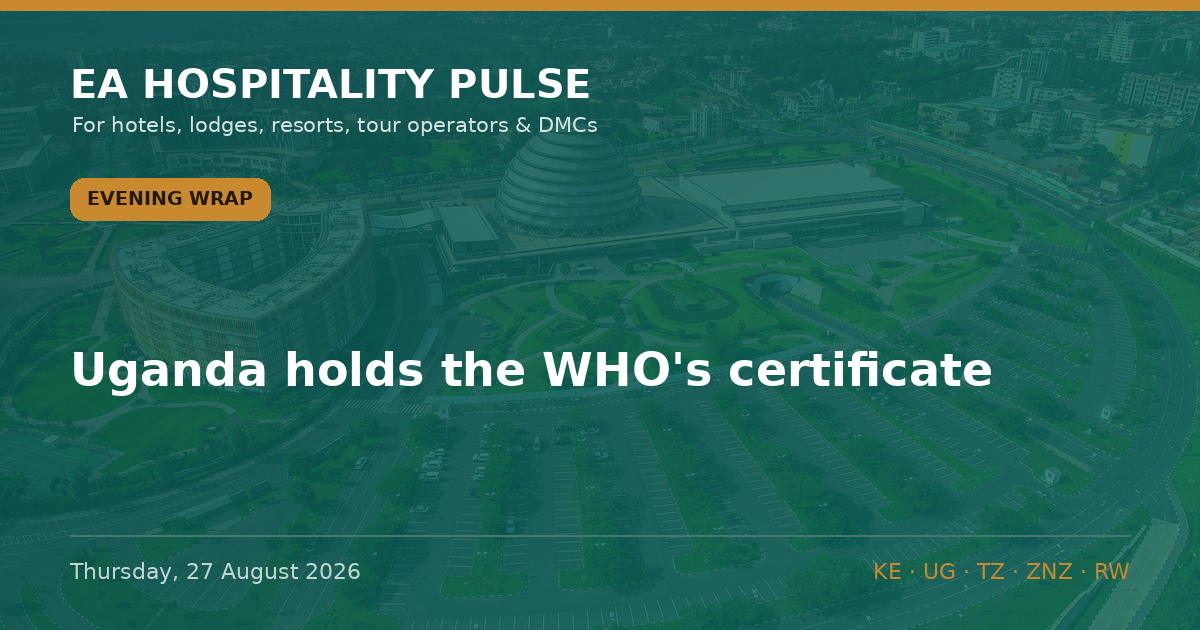
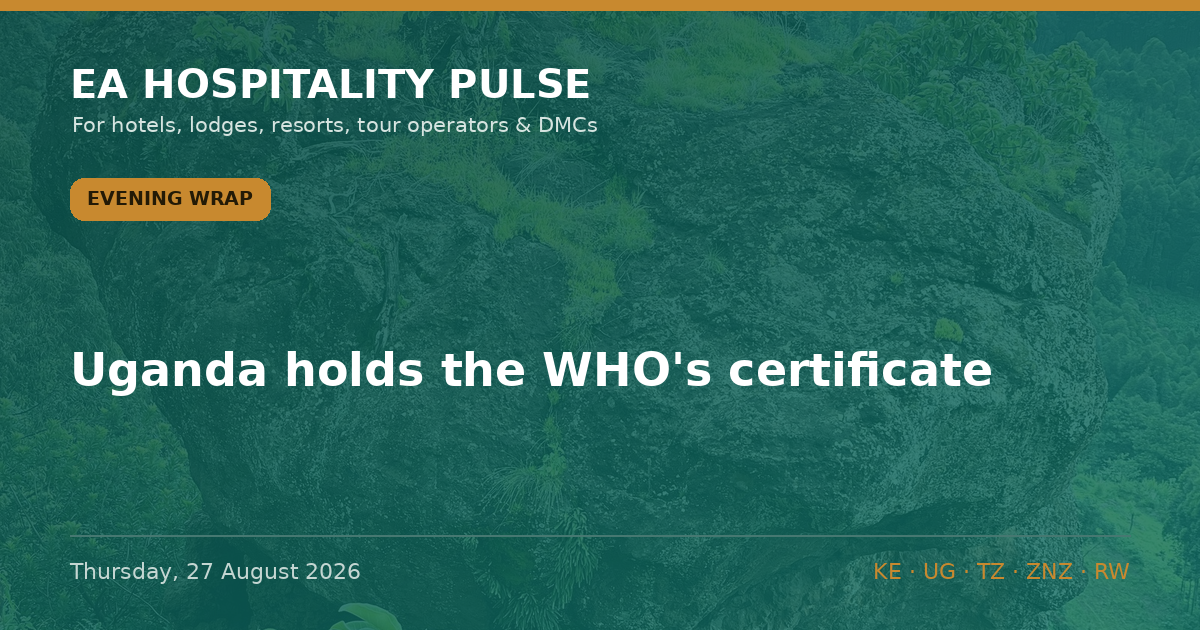
Auto-build: 2026-08-27 13:41 UTC

diff --git a/data.js b/data.js
@@ -135,15 +135,6 @@ window.EDITIONS = [
   "bodyHtml": "<p>☀ <strong>MORNING BRIEF — Tue 19 Aug 2026</strong><br><em>Quiet news slot — one expert read that matters more than any headline.</em></p>\n<p><strong>YOUR FASTEST-GROWING GUEST IS YOUR NEIGHBOUR — AND YOUR GOVERNMENT IS TAXING THEM AT THE BASE</strong></p>\n<p>Read the 2025 source-market tables and the story stops being about Europe. Uganda sent Kenya <strong>234,556 visitors in 2025 — 31% of all African arrivals, up 8.7%</strong>; Tanzania <strong>209,536, up 7.7%</strong> (KTB/TRI data via POATE 2026, reported by Citizen Digital &amp; New Vision). Kenya now targets <strong>300,000 Ugandan arrivals</strong>. In Rwanda it&#x27;s starker: the <strong>DRC is now the single largest source market — 185,420 visitors in H1 2026, 12.5% of all international arrivals</strong> (RDB). The regional guest is the base load now, not the overflow.</p>\n<p><strong>What most operators miss:</strong> the guest base changed but the playbook didn&#x27;t. The marginal booking now comes from a traveller who ignores Western Level-3 advisories, books short, drives or short-hauls in, and pays in a regional currency — yet we still run a long-haul-dollar operation: USD rack rates, GDS/OTA distribution, risk comms aimed at Europe. Worse, the same treasuries celebrating this demand are taxing its most price-sensitive flyer. Kenya&#x27;s JKIA passenger levy is now <strong>pledged to bondholders</strong> (Business Daily, 24 Jul) — hard to cut — with a 2% short-term-rental levy and a proposed travel-health-insurance charge stacking on top. Regional demand shrugs off advisories but is exquisitely sensitive to a $20 levy.</p>\n<p><span class=\"sowhat\">🎯 <strong>So what — by segment:</strong></span><br>🏙 <strong>City:</strong> regional corporate, VFR and events traffic is your steadiest base — build regional-agent and WhatsApp distribution, quote in regional terms, not just a USD rack. 🌿 <strong>Bush:</strong> regional guests are lower-ADR but fill shoulder/low season and hedge advisory-driven long-haul softness — watch the total trip cost, because a park-fee-plus-air-levy stack is what loses them. 🏖 <strong>Beach:</strong> the drive-and-short-haul market (Ugandans/Tanzanians to Diani &amp; Mombasa, regional flyers to Zanzibar) is now year-round base load — protect it from feeder-route fragility and levy creep.<br><span class=\"tagline\">🏷 Regional · Confirmed (KTB/TRI 2025, RDB H1 2026) / Inference on operator response.</span></p>\n<hr class=\"divider\">\n<p>✅ <strong>STILL TRUE</strong> — No EA advisory moved. Kenya <strong>US Level 2</strong> (core corridors, Diani, Watamu clear); Tanzania &amp; Zanzibar <strong>Level 3</strong> (since 31 Oct 2025); Uganda <strong>US Level 4</strong> on residual Ebola grounds despite its 28 Jul outbreak-over call (travel.state.gov, verified 12 Aug). The regional guest travels through all of it — don&#x27;t discount as though it had lifted.<br>💷 <strong>COST PULSE</strong> — Price regional in regional money: KES→UGX <strong>28.36</strong> · KES→TZS <strong>20.30</strong> · KES→RWF <strong>11.31</strong> (CBK weekly). Kenya diesel <strong>KSh 217.86/L</strong> (EPRA, 14 Aug) — refuse any supplier fuel surcharge this cycle.<br><span class=\"meta-line\">📅 <strong>WEEK AHEAD</strong> — <strong>19–21 Aug</strong> Hotel Expo Kenya, KICC · <strong>18–20 Aug</strong> AfPIF, Kigali Marriott · late Aug KNBS/UBOS/NISR CPI · <strong>26–28 Aug</strong> Africa Global PR Week, Nairobi · <strong>4 Sep</strong> Kwita Izina, Musanze.</span><br><span class=\"meta-line\">📡 <strong>RADAR</strong> — 470 in-window observations to 08:38 EAT; feed live. No EA advisory moved (only Mauritania/Netherlands/Ecuador flagged). Jambojet &amp; Airlink press pages moved behind Incapsula — a persistent blind spot, not news. Kenya Law feed heavy with court judgments, none hospitality.</span></p>\n<p>🔗 This edition on the web: <a href=\"https://eahospitalitypulse.com/editions/pulse-2026-08-19-morning.html\" rel=\"noopener\">eahospitalitypulse.com/editions/pulse-2026-08-19-mornin…</a></p>"
  },
  {
-  "id": "pulse-2026-08-18-special",
-  "date": "2026-08-18",
-  "dateDisplay": "Tuesday, 18 August 2026",
-  "edition": "Morning Brief",
-  "editionKey": "morning",
-  "summary": "1⃣ 🇰🇪 THE COAST IS OUTGROWING THE GATEWAY — AND THE NATIONAL NUMBER HIDES IT",
-  "bodyHtml": "<p>📊 <strong>EA HOSPITALITY PULSE — Special Edition</strong><br>🗓 Tuesday 18 August 2026 | 🇰🇪 KNBS data drop</p>\n<p><em>Kenya&#x27;s arrivals are up — but not where the headline says. Read the map before the margin.</em><br>━━━━━━━━━<br><strong>1⃣ 🇰🇪 THE COAST IS OUTGROWING THE GATEWAY — AND THE NATIONAL NUMBER HIDES IT</strong></p>\n<p>Official visitor arrivals now run through April. Jan–Apr 2026: <strong>828,830, up 9.5%</strong> on the same months of 2025 (757,245) — Kenya Leading Economic Indicators, June 2026, KNBS, released 14 Aug.</p>\n<p>The headline is real. The distribution is the story. Mombasa&#x27;s Moi International (MIA) took <strong>96,701 arrivals, up 19.7%</strong> year-on-year, while JKIA grew <strong>8.5%</strong> and land borders <strong>7.5%</strong>. The coast is recovering over twice as fast as the Nairobi gateway.</p>\n<p><strong>What everyone is missing:</strong> the +9.5% is not evenly yours. In April — the long-rains trough — national arrivals rose just 2.9% and <strong>JKIA fell 1.0%</strong> YoY. Strip the coast out and the city-gateway recovery is modest and seasonal. A Nairobi GM reading &quot;+9.5%&quot; as their own demand is reading the wrong line. Backing it: SGR passengers ran <strong>~12% ahead</strong> in Q1 — the Nairobi–Mombasa corridor is carrying this (KNBS).</p>\n<p><span class=\"tagline\">🏷 City/Beach · Kenya · Confirmed (KNBS arrivals &amp; SGR) / Inference (regional read)</span><br><span class=\"sowhat\">🎯 <strong>So what:</strong> <strong>Coast</strong> — demand is arriving; hold rate through the Sep–Oct build and stop discounting. <strong>Nairobi</strong> — treat H1 as flat-to-soft on your own gateway; win share through corporate, MICE and regional traffic, not a rising tide.</span></p>\n<p><strong>2⃣ 🇰🇪 THE CURRENCY IS QUIETLY REPRICING YOUR EUROPEAN GUEST</strong></p>\n<p>Over H1 2026 the shilling <strong>firmed</strong> against sterling (174.32→<strong>172.72</strong>) and the euro (151.37→<strong>149.22</strong>), flat against the dollar at <strong>~129.5</strong> (KNBS, June). Inflation sat at <strong>6.4%</strong>, the CBR held at <strong>8.75%</strong>.</p>\n<p>Read together: a European operator&#x27;s fixed FX budget now buys <strong>fewer shillings</strong> than in January — mild pressure on any KES-cost property selling into Europe, while dollar-priced lodges keep their spread intact.</p>\n<p><span class=\"tagline\">🏷 City/Bush/Beach · Kenya · Confirmed (KNBS forex/CPI) / Inference (pricing read)</span><br><span class=\"sowhat\">🎯 <strong>So what:</strong> If you cost in shillings and sell in euros or pounds, revisit 2027 contract rates now — the FX drift is against you. Price in USD and you&#x27;re insulated.</span></p>\n<p>━━━━━━━━━<br>🍲 <strong>SUPPLY-CHAIN SIDEBAR — where your southern-circuit kitchen shops</strong></p>\n<p>Informal cross-border trade <strong>fell 16.7%</strong> in 2025 (KSh 299.0m→249.1m), and <strong>Tanzania became the top source of informal imports at 47.2%</strong>, overwhelmingly <strong>food and live animals (78.5%)</strong> — KNBS Informal Cross-Border Trade Survey 2025, released 17 Aug. Main entry points: <strong>Namanga, Isebania, Malaba</strong> — the Amboseli, Mara and Uganda corridors.</p>\n<p><span class=\"sowhat\">🎯 <strong>So what:</strong> Southern-circuit lodges run partly on this informal Tanzanian fresh-food flow. A contracting, Tanzania-concentrated supply line is a produce-cost and continuity risk — worth a word with your F&amp;B suppliers before high season. 🏷 Bush · Confirmed (KNBS ICBT) / Inference.</span></p>\n<p>━━━━━━━━━<br>✅ <strong>STILL TRUE</strong> — Kenya remains US <strong>Level 2</strong>; core corridors (Nairobi, Diani, Watamu) sit in no Level 4 area (travel.state.gov, verified 12 Aug). Don&#x27;t discount on a story that hasn&#x27;t moved.</p>\n<p>⚡ <strong>COST PULSE</strong> — Nairobi diesel holds <strong>KSh 217.86/L</strong> to 14 Sep, ~KSh 14.28/L above landed-cost parity (EPRA / Business Daily, 14 Aug).</p>\n<p><span class=\"meta-line\">📅 <strong>WEEK AHEAD</strong> — <strong>19–21 Aug</strong> Hotel Expo Kenya, KICC · <strong>26–28 Aug</strong> Africa Global PR Week, Nairobi. Watch the <strong>May–June arrivals</strong> print to confirm the coast trend.</span></p>\n<p>🔗 This edition on the web: <a href=\"https://eahospitalitypulse.com/editions/pulse-2026-08-18-special.html\" rel=\"noopener\">eahospitalitypulse.com/editions/pulse-2026-08-18-specia…</a><br>— EA Hospitality Pulse | Daily intelligence for city, bush &amp; beach properties</p>"
- },
- {
   "id": "pulse-2026-08-18-morning",
   "date": "2026-08-18",
   "dateDisplay": "Tuesday, 18 August 2026",
@@ -151,6 +142,15 @@ window.EDITIONS = [
   "editionKey": "morning",
   "summary": "1⃣ 🌍 THE AIRLIFT YOU'RE CELEBRATING IS THE LEAST PROFITABLE IN THE WORLD",
   "bodyHtml": "<p>🌅 <strong>EA HOSPITALITY PULSE — Morning Brief</strong><br>🗓 Tuesday 18 August 2026 | 🌍 🇰🇪 🇺🇬 🇷🇼 🇹🇿</p>\n<p><em>Expert Brief: East Africa is adding air routes faster than its airlines can afford to fly them.</em><br>━━━━━━━━━<br><strong>1⃣ 🌍 THE AIRLIFT YOU&#x27;RE CELEBRATING IS THE LEAST PROFITABLE IN THE WORLD</strong></p>\n<p>Every route launch lands as good news in this business. Uganda Airlines opens Entebbe–Accra on 27 Oct and daily Entebbe–Kigali on 18 Nov (announced 5 Aug, The EastAfrican); Airlink starts Cape Town–Zanzibar on 3 Oct. Read the balance sheet underneath and the mood changes.</p>\n<p>IATA&#x27;s December outlook put African carriers at <strong>US$1.30 of profit per passenger</strong> for 2026 against a <strong>US$7.90</strong> global average — a <strong>1.3% margin, the thinnest of any region</strong> (IATA, 9 Dec 2025). By its June AGM it had cut the 2026 line again: profit per passenger down to <strong>40 US cents</strong> from US$2.10 in 2025, and the continent&#x27;s total net profit halved to <strong>~US$100m</strong> (IATA &quot;Energy in Crisis&quot; outlook, 8 Jun 2026). East Africa&#x27;s recovery is riding on the most fragile airlift economics on the planet.</p>\n<p><strong>What everyone is missing:</strong> a new-route press release reads as demand arriving. It is actually thin-margin capacity being <strong>lent</strong> — and thin-margin capacity is the first thing cut when a season underperforms. Turkish suspended 18 routes for summer 2026, Istanbul–Dar es Salaam among them, final flights in May/June (reported 2026). The route you don&#x27;t help fill in its first two seasons is the route that isn&#x27;t there in year three. Airlift is not infrastructure you inherit; it&#x27;s a trade relationship you keep alive.</p>\n<p><span class=\"tagline\">🏷 City/Bush/Beach · Regional · Confirmed (IATA figures &amp; schedules) / Inference (fragility read)</span><br><span class=\"sowhat\">🎯 <strong>So what — by segment:</strong> <strong>City</strong> (Nairobi/Kigali/Kampala): put corporate blocks and MICE contracts onto the new regional frequencies so they survive to a third season. <strong>Bush:</strong> the luxury pivot means fewer, higher-value guests who still need a long-haul seat — cultivate the carriers that actually serve your source markets. <strong>Beach:</strong> feeder routes are the most fragile of all — a trial like Cape Town–Zanzibar lives or dies on load factor. Fill it or lose it.</span></p>\n<p>━━━━━━━━━<br>✅ <strong>STILL TRUE</strong> — Tanzania &amp; Zanzibar remain US <strong>Level 3</strong> (unchanged since 31 Oct 2025); Kenya <strong>Level 2</strong>, core tourist corridors clear (travel.state.gov, verified 12 Aug). Nothing moved overnight. Don&#x27;t discount as though it had.</p>\n<p>⚡ <strong>COST PULSE</strong> — Nairobi diesel holds at <strong>KSh 217.86/L</strong> to 14 Sep; operators are carrying roughly <strong>KSh 14.28/L above landed-cost parity</strong> — refuse any supplier fuel surcharge this cycle (EPRA / Business Daily, 14 Aug).</p>\n<p>🎤 <strong>MICE WATCH</strong> — <strong>AfPIF</strong> (300–500 delegates) fills the Kigali Marriott cluster <strong>18–20 Aug</strong>; <strong>Hotel Expo Kenya</strong> at KICC, <strong>19–21 Aug</strong>. Hold corporate rate, don&#x27;t discount into the shoulder.</p>\n<p><span class=\"meta-line\">📅 <strong>WEEK AHEAD</strong> — <strong>18 Aug</strong> WHO IHR Committee on the Bundibugyo PHEIC · <strong>22 Aug</strong> Julius Nyerere hydropower inauguration, TZ · <strong>26–28 Aug</strong> Africa Global PR Week, Mövenpick Nairobi · <strong>28 Aug</strong> WTA Africa Gala, Zanzibar · <strong>late Aug</strong> KNBS/UBOS/NISR CPI prints.</span></p>\n<p><span class=\"meta-line\">📡 <strong>RADAR</strong> — 593 in-window observations to 08:17 EAT; feed live. Jambojet and Airlink press pages moved again behind Incapsula — a persistent blind spot, not a quiet night. Kenya Law feed heavy with court judgments, none hospitality. No advisory level moved.</span></p>\n<p><span class=\"meta-line\">💬 Which inbound route would you actually miss — and are you filling it, or just watching it?</span></p>\n<p>🔗 This edition on the web: <a href=\"https://eahospitalitypulse.com/editions/pulse-2026-08-18-morning.html\" rel=\"noopener\">eahospitalitypulse.com/editions/pulse-2026-08-18-mornin…</a><br>— EA Hospitality Pulse | Daily intelligence for city, bush &amp; beach properties</p>"
+ },
+ {
+  "id": "pulse-2026-08-18-special",
+  "date": "2026-08-18",
+  "dateDisplay": "Tuesday, 18 August 2026",
+  "edition": "Morning Brief",
+  "editionKey": "morning",
+  "summary": "1⃣ 🇰🇪 THE COAST IS OUTGROWING THE GATEWAY — AND THE NATIONAL NUMBER HIDES IT",
+  "bodyHtml": "<p>📊 <strong>EA HOSPITALITY PULSE — Special Edition</strong><br>🗓 Tuesday 18 August 2026 | 🇰🇪 KNBS data drop</p>\n<p><em>Kenya&#x27;s arrivals are up — but not where the headline says. Read the map before the margin.</em><br>━━━━━━━━━<br><strong>1⃣ 🇰🇪 THE COAST IS OUTGROWING THE GATEWAY — AND THE NATIONAL NUMBER HIDES IT</strong></p>\n<p>Official visitor arrivals now run through April. Jan–Apr 2026: <strong>828,830, up 9.5%</strong> on the same months of 2025 (757,245) — Kenya Leading Economic Indicators, June 2026, KNBS, released 14 Aug.</p>\n<p>The headline is real. The distribution is the story. Mombasa&#x27;s Moi International (MIA) took <strong>96,701 arrivals, up 19.7%</strong> year-on-year, while JKIA grew <strong>8.5%</strong> and land borders <strong>7.5%</strong>. The coast is recovering over twice as fast as the Nairobi gateway.</p>\n<p><strong>What everyone is missing:</strong> the +9.5% is not evenly yours. In April — the long-rains trough — national arrivals rose just 2.9% and <strong>JKIA fell 1.0%</strong> YoY. Strip the coast out and the city-gateway recovery is modest and seasonal. A Nairobi GM reading &quot;+9.5%&quot; as their own demand is reading the wrong line. Backing it: SGR passengers ran <strong>~12% ahead</strong> in Q1 — the Nairobi–Mombasa corridor is carrying this (KNBS).</p>\n<p><span class=\"tagline\">🏷 City/Beach · Kenya · Confirmed (KNBS arrivals &amp; SGR) / Inference (regional read)</span><br><span class=\"sowhat\">🎯 <strong>So what:</strong> <strong>Coast</strong> — demand is arriving; hold rate through the Sep–Oct build and stop discounting. <strong>Nairobi</strong> — treat H1 as flat-to-soft on your own gateway; win share through corporate, MICE and regional traffic, not a rising tide.</span></p>\n<p><strong>2⃣ 🇰🇪 THE CURRENCY IS QUIETLY REPRICING YOUR EUROPEAN GUEST</strong></p>\n<p>Over H1 2026 the shilling <strong>firmed</strong> against sterling (174.32→<strong>172.72</strong>) and the euro (151.37→<strong>149.22</strong>), flat against the dollar at <strong>~129.5</strong> (KNBS, June). Inflation sat at <strong>6.4%</strong>, the CBR held at <strong>8.75%</strong>.</p>\n<p>Read together: a European operator&#x27;s fixed FX budget now buys <strong>fewer shillings</strong> than in January — mild pressure on any KES-cost property selling into Europe, while dollar-priced lodges keep their spread intact.</p>\n<p><span class=\"tagline\">🏷 City/Bush/Beach · Kenya · Confirmed (KNBS forex/CPI) / Inference (pricing read)</span><br><span class=\"sowhat\">🎯 <strong>So what:</strong> If you cost in shillings and sell in euros or pounds, revisit 2027 contract rates now — the FX drift is against you. Price in USD and you&#x27;re insulated.</span></p>\n<p>━━━━━━━━━<br>🍲 <strong>SUPPLY-CHAIN SIDEBAR — where your southern-circuit kitchen shops</strong></p>\n<p>Informal cross-border trade <strong>fell 16.7%</strong> in 2025 (KSh 299.0m→249.1m), and <strong>Tanzania became the top source of informal imports at 47.2%</strong>, overwhelmingly <strong>food and live animals (78.5%)</strong> — KNBS Informal Cross-Border Trade Survey 2025, released 17 Aug. Main entry points: <strong>Namanga, Isebania, Malaba</strong> — the Amboseli, Mara and Uganda corridors.</p>\n<p><span class=\"sowhat\">🎯 <strong>So what:</strong> Southern-circuit lodges run partly on this informal Tanzanian fresh-food flow. A contracting, Tanzania-concentrated supply line is a produce-cost and continuity risk — worth a word with your F&amp;B suppliers before high season. 🏷 Bush · Confirmed (KNBS ICBT) / Inference.</span></p>\n<p>━━━━━━━━━<br>✅ <strong>STILL TRUE</strong> — Kenya remains US <strong>Level 2</strong>; core corridors (Nairobi, Diani, Watamu) sit in no Level 4 area (travel.state.gov, verified 12 Aug). Don&#x27;t discount on a story that hasn&#x27;t moved.</p>\n<p>⚡ <strong>COST PULSE</strong> — Nairobi diesel holds <strong>KSh 217.86/L</strong> to 14 Sep, ~KSh 14.28/L above landed-cost parity (EPRA / Business Daily, 14 Aug).</p>\n<p><span class=\"meta-line\">📅 <strong>WEEK AHEAD</strong> — <strong>19–21 Aug</strong> Hotel Expo Kenya, KICC · <strong>26–28 Aug</strong> Africa Global PR Week, Nairobi. Watch the <strong>May–June arrivals</strong> print to confirm the coast trend.</span></p>\n<p>🔗 This edition on the web: <a href=\"https://eahospitalitypulse.com/editions/pulse-2026-08-18-special.html\" rel=\"noopener\">eahospitalitypulse.com/editions/pulse-2026-08-18-specia…</a><br>— EA Hospitality Pulse | Daily intelligence for city, bush &amp; beach properties</p>"
  },
  {
   "id": "pulse-2026-08-17-evening",
@@ -3017,4 +3017,4 @@ window.INSIGHTS = [
   "editionKey": "evening"
  }
 ];
-window.BUILT_AT = "2026-08-27 16:38";
+window.BUILT_AT = "2026-08-27 13:40";

diff --git a/editions/pulse-2026-08-17-evening.html b/editions/pulse-2026-08-17-evening.html
@@ -170,7 +170,7 @@ footer.s a:hover{color:var(--teal-d);border-bottom-color:var(--gold)}
 <p>🔗 This edition on the web: <a href="https://eahospitalitypulse.com/editions/pulse-2026-08-17-evening.html" rel="noopener">eahospitalitypulse.com/editions/pulse-2026-08-17-evenin…</a><br>💼 Today&#x27;s Big Read on LinkedIn: <a href="https://www.linkedin.com/company/ea-hospitality-pulse/" rel="noopener">linkedin.com/company/ea-hospitality-pulse/</a><br>— EA Hospitality Pulse | Daily intelligence for city, bush &amp; beach properties</p>
     <div class="more"><b>More from Monday, 17 August 2026:</b> <a href="pulse-2026-08-17-midday.html">Midday Pulse</a></div>
     <aside class="refs" aria-label="Reference guides"><h2>Reference</h2><ul><li><a href="../guides/ota-commission-what-it-actually-costs.html">What OTA commission actually costs an East African hotel</a></li><li><a href="../guides/park-permit-fees-east-africa.html">Park and permit fees across East Africa: what to check before you quote</a></li><li><a href="../guides/sustainability-compliance-east-africa.html">Sustainability compliance in East Africa — plastics, carbon and certification, without the hype</a></li><li><a href="../guides/tech-stack-east-africa.html">The East African hotel tech stack — payment costs, PMS fit and where AI pricing actually works</a></li><li><a href="../guides/travel-advisories-what-actually-moves-bookings.html">Reading a travel advisory: what actually moves bookings</a></li></ul></aside>
-    <nav class="pnrow"><a class="pn prev" href="pulse-2026-08-17-midday.html" rel="prev">← Midday Pulse · Monday, 17 August 2026</a><a class="pn next" href="pulse-2026-08-18-morning.html" rel="next">Morning Brief · Tuesday, 18 August 2026 →</a></nav>
+    <nav class="pnrow"><a class="pn prev" href="pulse-2026-08-17-midday.html" rel="prev">← Midday Pulse · Monday, 17 August 2026</a><a class="pn next" href="pulse-2026-08-18-special.html" rel="next">Morning Brief · Tuesday, 18 August 2026 →</a></nav>
     <div class="sub">
       <b>Follow the Pulse</b> — three briefs a day across Kenya, Uganda, Tanzania, Zanzibar &amp; Rwanda.<br>
       <a href="https://t.me/eahospitalitypulse" target="_blank" rel="noopener">📣 Telegram (full editions)</a>

diff --git a/editions/pulse-2026-08-18-morning.html b/editions/pulse-2026-08-18-morning.html
@@ -172,7 +172,7 @@ footer.s a:hover{color:var(--teal-d);border-bottom-color:var(--gold)}
 <p>🔗 This edition on the web: <a href="https://eahospitalitypulse.com/editions/pulse-2026-08-18-morning.html" rel="noopener">eahospitalitypulse.com/editions/pulse-2026-08-18-mornin…</a><br>— EA Hospitality Pulse | Daily intelligence for city, bush &amp; beach properties</p>
     <div class="more"><b>More from Tuesday, 18 August 2026:</b> <a href="pulse-2026-08-18-special.html">Morning Brief</a></div>
     <aside class="refs" aria-label="Reference guides"><h2>Reference</h2><ul><li><a href="../guides/ota-commission-what-it-actually-costs.html">What OTA commission actually costs an East African hotel</a></li><li><a href="../guides/park-permit-fees-east-africa.html">Park and permit fees across East Africa: what to check before you quote</a></li><li><a href="../guides/sustainability-compliance-east-africa.html">Sustainability compliance in East Africa — plastics, carbon and certification, without the hype</a></li><li><a href="../guides/tech-stack-east-africa.html">The East African hotel tech stack — payment costs, PMS fit and where AI pricing actually works</a></li><li><a href="../guides/travel-advisories-what-actually-moves-bookings.html">Reading a travel advisory: what actually moves bookings</a></li></ul></aside>
-    <nav class="pnrow"><a class="pn prev" href="pulse-2026-08-17-evening.html" rel="prev">← Evening Wrap · Monday, 17 August 2026</a><a class="pn next" href="pulse-2026-08-18-special.html" rel="next">Morning Brief · Tuesday, 18 August 2026 →</a></nav>
+    <nav class="pnrow"><a class="pn prev" href="pulse-2026-08-18-special.html" rel="prev">← Morning Brief · Tuesday, 18 August 2026</a><a class="pn next" href="pulse-2026-08-19-morning.html" rel="next">Morning Brief · Wednesday, 19 August 2026 →</a></nav>
     <div class="sub">
       <b>Follow the Pulse</b> — three briefs a day across Kenya, Uganda, Tanzania, Zanzibar &amp; Rwanda.<br>
       <a href="https://t.me/eahospitalitypulse" target="_blank" rel="noopener">📣 Telegram (full editions)</a>

diff --git a/editions/pulse-2026-08-18-special.html b/editions/pulse-2026-08-18-special.html
@@ -176,7 +176,7 @@ footer.s a:hover{color:var(--teal-d);border-bottom-color:var(--gold)}
 <p>🔗 This edition on the web: <a href="https://eahospitalitypulse.com/editions/pulse-2026-08-18-special.html" rel="noopener">eahospitalitypulse.com/editions/pulse-2026-08-18-specia…</a><br>— EA Hospitality Pulse | Daily intelligence for city, bush &amp; beach properties</p>
     <div class="more"><b>More from Tuesday, 18 August 2026:</b> <a href="pulse-2026-08-18-morning.html">Morning Brief</a></div>
     <aside class="refs" aria-label="Reference guides"><h2>Reference</h2><ul><li><a href="../guides/ota-commission-what-it-actually-costs.html">What OTA commission actually costs an East African hotel</a></li><li><a href="../guides/park-permit-fees-east-africa.html">Park and permit fees across East Africa: what to check before you quote</a></li><li><a href="../guides/sustainability-compliance-east-africa.html">Sustainability compliance in East Africa — plastics, carbon and certification, without the hype</a></li><li><a href="../guides/tech-stack-east-africa.html">The East African hotel tech stack — payment costs, PMS fit and where AI pricing actually works</a></li><li><a href="../guides/travel-advisories-what-actually-moves-bookings.html">Reading a travel advisory: what actually moves bookings</a></li></ul></aside>
-    <nav class="pnrow"><a class="pn prev" href="pulse-2026-08-18-morning.html" rel="prev">← Morning Brief · Tuesday, 18 August 2026</a><a class="pn next" href="pulse-2026-08-19-morning.html" rel="next">Morning Brief · Wednesday, 19 August 2026 →</a></nav>
+    <nav class="pnrow"><a class="pn prev" href="pulse-2026-08-17-evening.html" rel="prev">← Evening Wrap · Monday, 17 August 2026</a><a class="pn next" href="pulse-2026-08-18-morning.html" rel="next">Morning Brief · Tuesday, 18 August 2026 →</a></nav>
     <div class="sub">
       <b>Follow the Pulse</b> — three briefs a day across Kenya, Uganda, Tanzania, Zanzibar &amp; Rwanda.<br>
       <a href="https://t.me/eahospitalitypulse" target="_blank" rel="noopener">📣 Telegram (full editions)</a>

diff --git a/editions/pulse-2026-08-19-morning.html b/editions/pulse-2026-08-19-morning.html
@@ -168,7 +168,7 @@ footer.s a:hover{color:var(--teal-d);border-bottom-color:var(--gold)}
 <p>🔗 This edition on the web: <a href="https://eahospitalitypulse.com/editions/pulse-2026-08-19-morning.html" rel="noopener">eahospitalitypulse.com/editions/pulse-2026-08-19-mornin…</a></p>
     <div class="more"><b>More from Wednesday, 19 August 2026:</b> <a href="pulse-2026-08-19-evening.html">Evening Wrap</a></div>
     <aside class="refs" aria-label="Reference guides"><h2>Reference</h2><ul><li><a href="../guides/ota-commission-what-it-actually-costs.html">What OTA commission actually costs an East African hotel</a></li><li><a href="../guides/park-permit-fees-east-africa.html">Park and permit fees across East Africa: what to check before you quote</a></li><li><a href="../guides/sustainability-compliance-east-africa.html">Sustainability compliance in East Africa — plastics, carbon and certification, without the hype</a></li><li><a href="../guides/tech-stack-east-africa.html">The East African hotel tech stack — payment costs, PMS fit and where AI pricing actually works</a></li><li><a href="../guides/travel-advisories-what-actually-moves-bookings.html">Reading a travel advisory: what actually moves bookings</a></li></ul></aside>
-    <nav class="pnrow"><a class="pn prev" href="pulse-2026-08-18-special.html" rel="prev">← Morning Brief · Tuesday, 18 August 2026</a><a class="pn next" href="pulse-2026-08-19-evening.html" rel="next">Evening Wrap · Wednesday, 19 August 2026 →</a></nav>
+    <nav class="pnrow"><a class="pn prev" href="pulse-2026-08-18-morning.html" rel="prev">← Morning Brief · Tuesday, 18 August 2026</a><a class="pn next" href="pulse-2026-08-19-evening.html" rel="next">Evening Wrap · Wednesday, 19 August 2026 →</a></nav>
     <div class="sub">
       <b>Follow the Pulse</b> — three briefs a day across Kenya, Uganda, Tanzania, Zanzibar &amp; Rwanda.<br>
       <a href="https://t.me/eahospitalitypulse" target="_blank" rel="noopener">📣 Telegram (full editions)</a>

diff --git a/editions/pulse-2026-08-27-evening.html b/editions/pulse-2026-08-27-evening.html
@@ -153,7 +153,7 @@ footer.s a:hover{color:var(--teal-d);border-bottom-color:var(--gold)}
 <div class="wrap">
   <article class="art">
     <img class="hero" src="../og/pulse-2026-08-27-evening-clean.png" alt="Evening Wrap — Thursday, 27 August 2026" loading="eager">
-    
+    <p class="hcredit">Photo: Sandra Aceng · <a href="https://commons.wikimedia.org/wiki/File:Majestic_Rock_Formation_at_Sipi,_Eastern_Uganda.jpg" target="_blank" rel="noopener nofollow">Wikimedia Commons</a> · <a href="https://creativecommons.org/licenses/by-sa/4.0" target="_blank" rel="noopener nofollow">CC BY-SA 4.0</a></p>
     <nav class="crumbs" aria-label="Breadcrumb"><a href="../index.html">Home</a><span aria-hidden="true">/</span><a href="../index.html#archive">Editions</a><span aria-hidden="true">/</span><span aria-current="page">Evening Wrap, Thursday, 27 August 2026</span></nav>
     <div class="kicker"><span class="badge">Evening Wrap</span><time datetime="2026-08-27">Thursday, 27 August 2026</time></div>
     <h1>Uganda holds the WHO&#x27;s certificate.</h1>

diff --git a/index.html b/index.html
@@ -456,7 +456,7 @@
   .imp-demand{color:var(--sage)} .imp-margin{color:var(--coral)} .imp-risk{color:#ff5b5b} .imp-watch{color:var(--amber)}
   @media(max-width:520px){.imp{position:static;display:inline-flex;margin:0 0 9px}.insight h3,.insight .imeta{padding-right:0}}
 </style>
-<!--BUILD_STAMP:20260827-1638--></head>
+<!--BUILD_STAMP:20260827-1340--></head>
 <body>
 <header class="site">
   <div class="wrap topbar">

diff --git a/ledger.js b/ledger.js
@@ -1,5 +1,5 @@
 window.LEDGER = {
- "updated": "2026-08-27 16:39",
+ "updated": "2026-08-27 13:41",
  "stats": {
   "total": 132,
   "open": 109,
